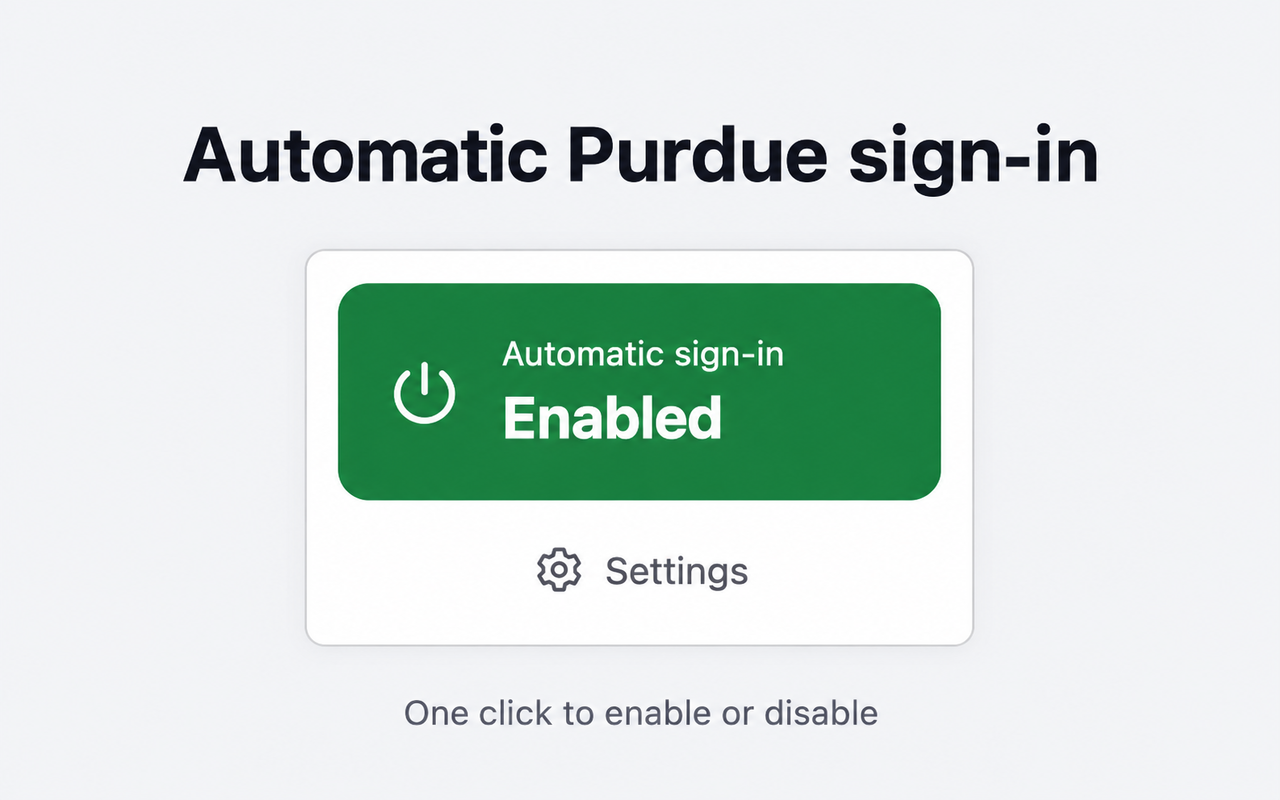
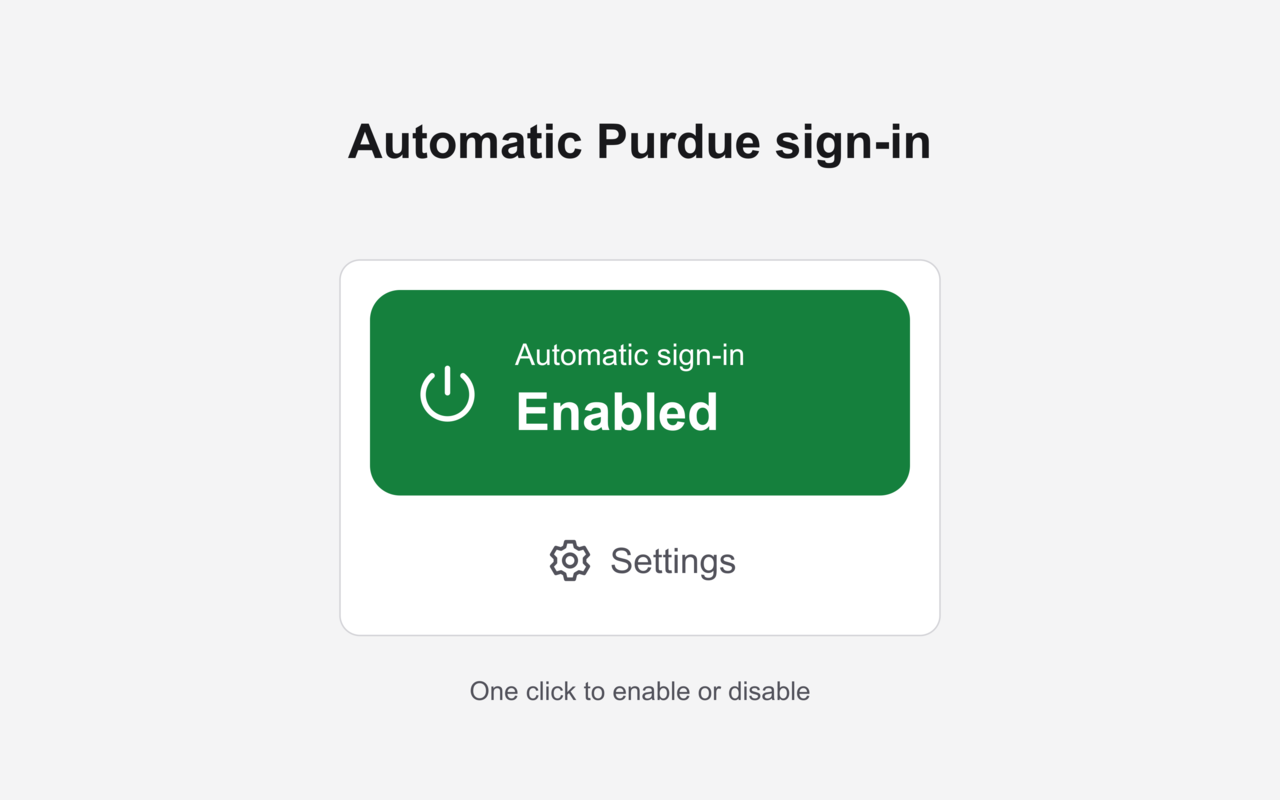
Replace store screenshot with reproducible SVG artwork

diff --git a/docs/chrome-submission.md b/docs/chrome-submission.md
@@ -5,11 +5,12 @@ Updated October 16, 2026 for version 1.1.2, **Automatic Purdue sign-in**. This v
 ## Status
 
 - Version **1.1.2** was submitted, approved, and manually published on October 16, 2026. The dashboard confirms **Published — public**, and the [public Chrome Web Store listing](https://chromewebstore.google.com/detail/automatic-purdue-sign-in/eddemecijgomibcpkealhgbchfiphcnc) displays version 1.1.2. Automatic publication was disabled during review; after approval, the publisher explicitly authorized publication. The staged publication deadline no longer applies.
+- Later on October 16, 2026, submitted a listing-only screenshot replacement for review. The replacement PNG is rendered from editable SVG and uses no image-generation assets. The old screenshot was removed from the draft, leaving only the replacement. Google confirmed submission, and the update is **Pending review** with automatic publication enabled. No new extension package was uploaded; the published release remains version 1.1.2. The screenshot replacement is not confirmed live until this listing update is approved and published.
 - [Manage submission](https://chrome.google.com/webstore/devconsole/ff1a382b-328f-421e-b4cc-c4df094d8f2c/eddemecijgomibcpkealhgbchfiphcnc/edit/package). Item ID: `eddemecijgomibcpkealhgbchfiphcnc`.
 - Publisher registration is complete. The publisher authorized the non-trader declaration, added and verified the public contact email, and chose the display name **Paras Mittal**.
 - Saved the description, Tools category, English language, homepage/support URLs, store icon, and small promotional tile. Saved the single-purpose and permission explanations, no-remote-code declaration, and data categories: personally identifiable information, authentication information, and website content.
 - Saved the updated encryption disclosure and storage justification, and completed the three limited-use certifications. Saved the reviewer instructions below. The published item is free of charge, public, and available in all configured regions.
-- On October 16, 2026, pushed the extension commits and `v1.1.0` tag to GitHub. The privacy policy is public at https://github.com/pmxi/purdue-sso/blob/main/PRIVACY.md and that URL is saved in the Chrome listing. The policy was updated for encryption before submitting 1.1.2. Added a 1280 × 800 store screenshot graphic based on the publisher's popup capture.
+- On October 16, 2026, pushed the extension commits and `v1.1.0` tag to GitHub. The privacy policy is public at https://github.com/pmxi/purdue-sso/blob/main/PRIVACY.md and that URL is saved in the Chrome listing. The policy was updated for encryption before submitting 1.1.2. The replacement screenshot submitted for review is a 1280 × 800 PNG rendered from editable SVG matching the popup interface; no image-generation assets are used.
[2 lines of base64/hex data omitted]
 - Full sign-in testing requires an authorized Purdue account. No live test credentials are included in this repository or package.
@@ -30,7 +31,7 @@ Updated October 16, 2026 for version 1.1.2, **Automatic Purdue sign-in**. This v
 
 **Small promotional tile:** `assets/chrome-promo.png` (440 × 280; editable source: `assets/chrome-promo.svg`).
 
-**Screenshot:** `assets/chrome-screenshot-enabled.png` (1280 × 800, 24-bit RGB PNG), generated from the publisher's supplied capture of the enabled popup. Generation details and prompt: `docs/chrome-screenshot.md`.
+**Screenshot:** `assets/chrome-screenshot-enabled.png` (1280 × 800, 24-bit RGB PNG), rendered from `assets/chrome-screenshot-enabled.svg`. Source and reproduction details: `docs/chrome-screenshot.md`.
 
 **Privacy policy:** https://github.com/pmxi/purdue-sso/blob/main/PRIVACY.md
 

diff --git a/docs/chrome-screenshot.md b/docs/chrome-screenshot.md
@@ -2,10 +2,16 @@
 
 Asset: `assets/chrome-screenshot-enabled.png`.
 
-Created October 16, 2026 using the built-in image generation tool with the publisher's supplied enabled-popup screenshot as the reference. This is a formatted store graphic based on that capture, not a new live browser capture. The visible controls and wording match the supplied screenshot: Automatic sign-in, Enabled, and Settings. The surrounding partial browser toolbar and unrelated background were removed.
+Replaced October 16, 2026 with a vector illustration rendered from `assets/chrome-screenshot-enabled.svg`. No image-generation model or generated raster asset is used. The previous generated image has been replaced.
 
-The generated result was resized and converted to the Chrome Web Store's 1280 × 800, 24-bit RGB PNG format. No alpha channel is present. The saved asset was visually inspected before upload.
+The popup layout, colors, labels, and icon paths follow the light-theme interface in `extension/popup.html`. The vector uses Arial/Helvetica text and a 2.5× view of the 240px popup. This is an illustration of its enabled state, not a live browser capture. It contains no credentials or personal information.
 
-## Generation prompt
+## Reproduce
 
-Create a Chrome Web Store screenshot asset with exact canvas size 1280 by 800 pixels, opaque RGB background. This is a restrained product screenshot layout using the provided real extension popup screenshot. Preserve the actual popup UI faithfully: white rounded popup, large green rounded button, white power symbol, the exact text 'Automatic sign-in' and 'Enabled', and the gray gear with exact label 'Settings' below. Do not invent controls or change any UI text or layout. Remove the unrelated partial browser toolbar and cut-off background text outside the popup. Center the popup, large and clearly readable, on a very pale neutral gray canvas. Above it place the exact heading 'Automatic Purdue sign-in' in a clean dark sans-serif font. Below it place the exact small caption 'One click to enable or disable'. Keep the visual plain and factual, with generous spacing. No other words, no logos, no gradients, no extra decorative elements, no fake browser frame. This asset shows the real enabled state supplied by the user; preserve its appearance.
+Install ImageMagick, then run:
+
+```sh
+node scripts/render-store-screenshot.mjs
+```
+
+The script renders the SVG at 3× resolution and downsamples it to the Chrome Web Store's 1280 × 800, 24-bit RGB PNG format, without transparency. The image is committed, so normal extension builds do not need ImageMagick. The saved PNG was visually inspected and its dimensions and color format verified before upload.
